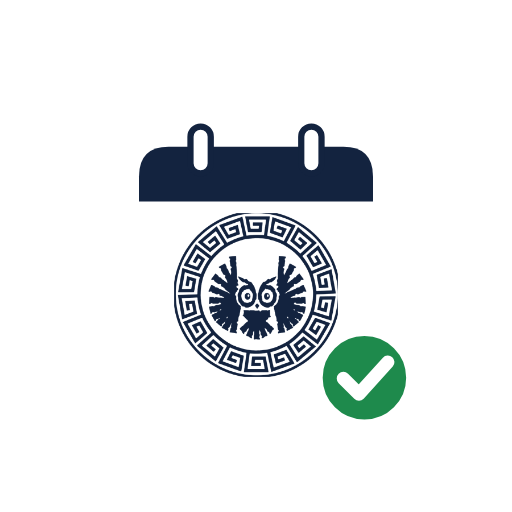
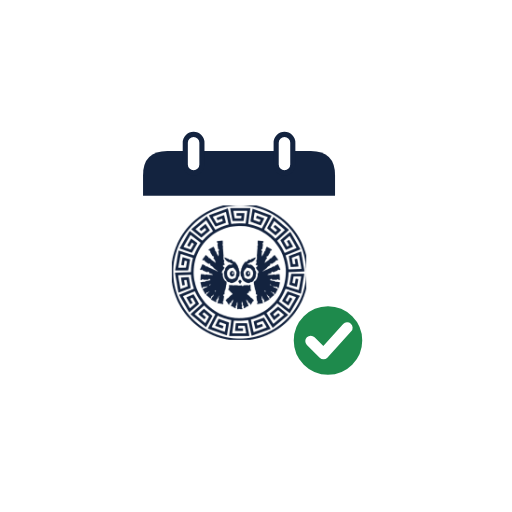
Icono: centrado y dentro de la zona visible de Android
Claude-Session: https://claude.ai/code/session_01BtroEbQSgogFczS13WMZS3

Changed region(s): [[0.25, 0.2188, 0.8125, 0.8438]]

diff --git a/docs/icono/akademo.js b/docs/icono/akademo.js
@@ -4,7 +4,8 @@ const TINTA = b64('logo_tinta.png'), BLANCO = b64('logo_blanco.png');
 // Hoja de calendario con el búho de la academia y una marca de «hecho».
 module.exports = function svg({ tam = 1024, escala = 1, fondo = '#2350D8', mono = false } = {}) {
   const k = escala * (tam / 1024);
-  const o = tam / 2 - 512 * k;
+  // Centro del conjunto (hoja + marca), no del lienzo: así queda centrado al recortarlo.
+  const ox = tam / 2 - 565 * k, oy = tam / 2 - 560 * k;
   const hoja = mono
     ? `<rect x="222" y="242" width="580" height="600" rx="70" fill="none" stroke="#fff" stroke-width="28"/>
        <rect x="222" y="242" width="580" height="130" rx="60" fill="#fff"/>`
@@ -16,7 +17,7 @@ module.exports = function svg({ tam = 1024, escala = 1, fondo = '#2350D8', mono 
     <path d="M736 826 L776 866 L850 784" fill="none" stroke="${mono ? '#000' : '#fff'}" stroke-width="34" stroke-linecap="round" stroke-linejoin="round" ${mono ? 'style="mix-blend-mode:destination-out"' : ''}/>`;
   return `<svg xmlns="http://www.w3.org/2000/svg" xmlns:xlink="http://www.w3.org/1999/xlink" width="${tam}" height="${tam}" viewBox="0 0 ${tam} ${tam}">
   ${fondo ? `<rect width="${tam}" height="${tam}" fill="${fondo}"/>` : ''}
-  <g transform="translate(${o} ${o}) scale(${k})">
+  <g transform="translate(${ox} ${oy}) scale(${k})">
     ${hoja}${anillas}
     <image href="${mono ? BLANCO : TINTA}" x="302" y="402" width="420" height="420"/>
     ${mono ? '' : marca}

diff --git a/docs/icono/render2.js b/docs/icono/render2.js
@@ -10,10 +10,10 @@ const fs = require('fs');
     await p.setContent(`<html><body style="margin:0;background:transparent">${svg(opts)}</body></html>`);
     await p.screenshot({ path: name + '.png', omitBackground: transparent, clip: { x: 0, y: 0, width: opts.tam, height: opts.tam } });
   };
-  await out('icon', { tam: 1024, escala: 0.92 }, false);
-  await out('android-icon-foreground', { tam: 512, escala: 0.78, fondo: null }, true);
+  await out('icon', { tam: 1024, escala: 0.84 }, false);
+  await out('android-icon-foreground', { tam: 512, escala: 0.64, fondo: null }, true);
   await out('android-icon-background', { tam: 512, escala: 0, fondo: '#2350D8' }, false);
-  await out('android-icon-monochrome', { tam: 432, escala: 0.78, fondo: null, mono: true }, true);
+  await out('android-icon-monochrome', { tam: 432, escala: 0.64, fondo: null, mono: true }, true);
   await out('splash-icon', { tam: 1024, escala: 0.9, fondo: null }, true);
   await out('favicon', { tam: 48, escala: 0.92 }, false);
   await b.close();

diff --git a/docs/icono/LEEME.md b/docs/icono/LEEME.md
@@ -4,6 +4,6 @@ Hoja de calendario (planificación del día) con el búho de ElJardi d'Akademo y
 
 - `logo_tinta.png` / `logo_blanco.png`: el logo de la academia con fondo transparente (azul marino y blanco).
 - `akademo.js`: dibuja el icono en SVG; `render2.js` lo pasa a los PNG de `assets/` con Playwright (Chromium).
-- Tamaños: `icon.png` 1024, Android adaptable 512 (dibujo al 78 % para la zona segura), monocromo 432 (también es el icono de las notificaciones).
+- Tamaños: `icon.png` 1024, Android adaptable 512 (dibujo al 64 % y centrado en el conjunto, para que quepa en la zona visible de 72 dp en círculo, squircle o cuadrado), monocromo 432 (también es el icono de las notificaciones).
 
 Para otras apps de la academia: mismo búho y estilo, cambiando la hoja y la marca.
